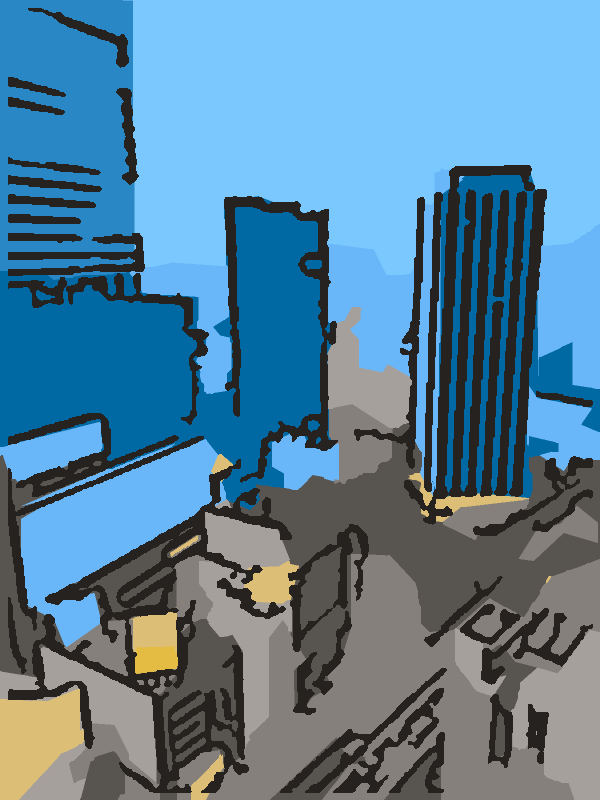
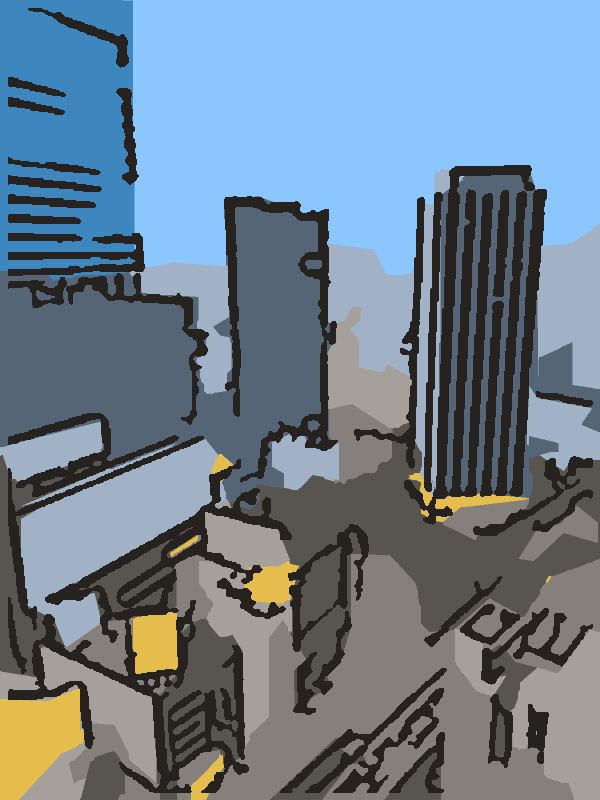
fix: keep natural palette colors close to the photo
Faint tints in a photo (blue skylight in shadows, overcast sky, glass) were
boosted to a fixed chroma of 40/64 and painted things in colors they do not
have. Output chroma now follows the photo's chroma after removing a small
tint floor, dull yellows snap to olive (foliage), dark colors fade, and
colors are fitted into sRGB without hue shifts.

diff --git a/src/photo2stamp/palette.py b/src/photo2stamp/palette.py
@@ -65,8 +65,21 @@ NATURAL_PALETTE = Palette(name=NATURAL, tones=(), sky="", accents=(), far="")
 # Hue anchors (Lab hue angle, degrees): red, orange, yellow, green, teal, blue, sky blue, purple.
 # Measured skies in the examples sit at 245..272 deg; 280 rendered them lavender.
 _HUE_ANCHORS = np.radians([30, 60, 88, 135, 190, 230, 262, 320])
-_NEUTRAL_CHROMA = 7.0  # below this a color is treated as grey (shadowed leaves are ~9)
-_MUTED, _VIVID = 40.0, 64.0  # output chroma for muted / vivid colors
+# Dull colors use olive (115) instead of yellow: a dull yellow in a photo is nearly always
+# foliage (conifers measure ~94 deg), while real yellow (signs, lamps) is saturated.
+_DULL_HUE_ANCHORS = np.radians([30, 60, 115, 135, 190, 230, 262, 320])
+_DULL_CHROMA = 20.0  # a hard switch on purpose: the olive/yellow split needs one rule
+_VIVID_INPUT = 35.0  # photo chroma above which a color counts as vivid (signs, lamps, flowers)
+# Output chroma follows the photo's chroma (x gain, capped): a faint tint in a photo is
+# mostly the light (blue skylight in shadows, overcast sky, glass) and must stay faint.
+# The first _TINT_FLOOR of chroma is treated as noise (white balance, haze) and removed.
+_CHROMA_GAIN = 3.5
+_TINT_FLOOR = 6.0
+_CHROMA_CAP = 64.0
+_CHROMA_STEP = 12.0  # output chroma is snapped to this step so near-equal colors merge
+# Below this lightness hues are unreliable (lighting, noise): chroma fades to 30%.
+_SHADOW_L = (5.0, 25.0)
+_NIGHT_SHADOW_L = (10.0, 50.0)  # night: fade longer and deeper (no maroon night sky)
 _L_RANGE = (34.0, 95.0)  # output lightness range: light enough for ink outlines to show
 _COLOR_L_MAX = 78.0  # max lightness of chromatic colors
 _L_STEP = 6.0  # lightness is snapped to this step so near-equal tones merge
@@ -190,32 +203,77 @@ def _equalized_lightness(L: np.ndarray, weights: np.ndarray | None, l_range: tup
     return (lo + below * (hi - lo)).astype(np.float32)
 
 
+def _max_chroma(L: np.ndarray, C: np.ndarray, h: np.ndarray) -> np.ndarray:
+    """Largest chroma <= C (per color) that stays inside sRGB at lightness L."""
+    out = C.astype(np.float32).copy()
+    for _ in range(25):
+        lab = np.stack([L, out * np.cos(h), out * np.sin(h)], axis=1).astype(np.float32)
+        rgb = cv2.cvtColor(lab.reshape(-1, 1, 3), cv2.COLOR_Lab2BGR)  # clips to 0..1
+        back = cv2.cvtColor(rgb, cv2.COLOR_BGR2Lab).reshape(-1, 3)
+        outside = np.linalg.norm(back - lab, axis=1) > 1.0
+        if not outside.any():
+            break
+        out = np.where(outside, out * 0.93, out)
+    else:  # near black / white no chroma fits: fall back to grey rather than a clipped hue
+        out = np.where(outside, 0.0, out)
+    return out
+
+
+# Lightness a vivid color may give up to keep its chroma; one unit of L costs one unit of C.
+_GAMUT_L_DROPS = (0.0, 4.0, 8.0, 12.0)
+
+
+def _fit_gamut(
+    L: np.ndarray, C: np.ndarray, h: np.ndarray, may_darken: np.ndarray
+) -> tuple[np.ndarray, np.ndarray]:
+    """Bring each color inside sRGB without a hue shift (clipping would turn light blue
+    into cyan). Colors in `may_darken` (vivid in the photo) may get slightly darker when
+    that keeps much more chroma; others (e.g. a pale sky) keep their lightness."""
+    cand_l = np.stack([np.where(may_darken, np.maximum(L - d, 0.0), L) for d in _GAMUT_L_DROPS])
+    cand_c = np.stack([_max_chroma(lv, C, h) for lv in cand_l])
+    score = cand_c - np.array(_GAMUT_L_DROPS)[:, None]
+    best = score.argmax(axis=0)
+    idx = np.arange(len(L))
+    return cand_l[best, idx], cand_c[best, idx]
+
+
+def _snap_hue(hue: np.ndarray, anchors: np.ndarray) -> np.ndarray:
+    """Nearest anchor angle (radians) for each hue."""
+    diff = np.abs((hue[:, None] - anchors[None, :] + np.pi) % (2 * np.pi) - np.pi)
+    return anchors[diff.argmin(axis=1)]
+
+
 def natural_colors(
     centers_lab: np.ndarray, weights: np.ndarray | None = None, l_range: tuple[float, float] | None = None
 ) -> np.ndarray:
     """Stylize cluster colors while keeping what makes things recognizable: their hue.
 
     Sky stays blue and trees stay green, but every hue is snapped to one of a few
-    anchors, saturation is set to one of two levels (muted / vivid), and lightness is
-    spread over a fixed range (half photo lightness, half area-equalized) in clear steps.
-    Greys stay grey. Returns a new (K,3) uint8 BGR array.
+    anchors, saturation follows the photo's (boosted, in steps; faint tints stay grey)
+    and lightness is spread over a fixed range (half photo lightness, half
+    area-equalized) in clear steps. Colors are fitted into sRGB without hue shifts.
+    Returns a new (K,3) uint8 BGR array.
     """
     c = np.asarray(centers_lab, np.float32)
     L, a, b = c[:, 0], c[:, 1], c[:, 2]
     chroma = np.hypot(a, b)
     hue = np.arctan2(b, a)
-    diff = np.abs((hue[:, None] - _HUE_ANCHORS[None, :] + np.pi) % (2 * np.pi) - np.pi)
-    snapped = _HUE_ANCHORS[diff.argmin(axis=1)]
-    out_c = np.where(chroma < _NEUTRAL_CHROMA, 3.0, np.where(chroma >= 35.0, _VIVID, _MUTED))
-    out_h = np.where(chroma < _NEUTRAL_CHROMA, np.radians(70), snapped)  # greys get a warm paper tint
+    snapped = np.where(chroma < _DULL_CHROMA, _snap_hue(hue, _DULL_HUE_ANCHORS), _snap_hue(hue, _HUE_ANCHORS))
+    night = l_range is not None and l_range[1] < 80
+    dark_lo, dark_hi = _NIGHT_SHADOW_L if night else _SHADOW_L
+    shadow = np.clip((L - dark_lo) / (dark_hi - dark_lo), 0.15 if night else 0.3, 1.0)
+    out_c = np.minimum(np.maximum(chroma - _TINT_FLOOR, 0.0) * _CHROMA_GAIN * shadow, _CHROMA_CAP)
+    out_c = np.round(out_c / _CHROMA_STEP) * _CHROMA_STEP
+    grey = out_c == 0  # chroma at or below about _TINT_FLOOR + 2.5
+    out_c = np.where(grey, 3.0, out_c)
+    out_h = np.where(grey, np.radians(70), snapped)  # greys get a warm paper tint
 
     lo, hi = l_range or _L_RANGE
     stretched = lo + (L - L.min()) / max(float(L.max() - L.min()), 1e-6) * (hi - lo) if len(L) > 1 else L
     out_l = 0.5 * stretched + 0.5 * _equalized_lightness(L, weights, (lo, hi))
     out_l = np.clip(np.round(out_l / _L_STEP) * _L_STEP, lo, hi)
     # very light colors fall outside sRGB and get washed out: only greys may go near white
-    out_l = np.where(chroma < _NEUTRAL_CHROMA, out_l, np.minimum(out_l, _COLOR_L_MAX))
-    if l_range is not None and l_range[1] < 80:  # night range: dark colors stay muted (no maroon night sky)
-        out_c = out_c * np.clip((L - 10.0) / 40.0, 0.15, 1.0)
+    out_l = np.where(grey, out_l, np.minimum(out_l, _COLOR_L_MAX))
+    out_l, out_c = _fit_gamut(out_l, out_c, out_h, may_darken=chroma >= _VIVID_INPUT)
     lab = np.stack([out_l, out_c * np.cos(out_h), out_c * np.sin(out_h)], axis=1)
     return lab_to_bgr(lab)

diff --git a/tests/test_natural_palette.py b/tests/test_natural_palette.py
@@ -25,7 +25,9 @@ def test_natural_keeps_hue_family():
 def test_natural_boosts_saturation_of_dull_colors():
     dull_green = _lab((50, -8, 8))
     b, g, r = natural_colors(dull_green)[0].astype(int)
-    assert g - max(b, r) > 15
+    assert g > max(b, r)
+    _, chroma, _ = _out_lch([(50, -8, 8)])
+    assert chroma[0] > np.hypot(8, 8)
 
 
 def test_natural_keeps_greys_neutral():
@@ -73,10 +75,11 @@ def test_natural_dark_colors_are_desaturated_in_night_range():
     assert max(b, g, r) - min(b, g, r) < 25
 
 
-def test_natural_daytime_shadow_foliage_stays_green():
-    # measured dark leaf cluster of examples/free/street.jpg
-    b, g, r = natural_colors(_lab((15.6, -8.5, -1.1), (61, -4, 2.2)))[0].astype(int)
-    assert g > r + 10  # greenish, not grey
+def test_natural_daytime_shadow_foliage_is_not_tinted():
+    # measured dark leaf cluster of examples/free/street.jpg: its teal tint is skylight,
+    # boosting it painted the canopy blue
+    _, chroma, _ = _out_lch([(15.6, -8.5, -1.1), (61, -4, 2.2)])
+    assert chroma[0] <= 12
 
 
 def test_natural_vivid_colors_are_strong():
@@ -86,3 +89,82 @@ def test_natural_vivid_colors_are_strong():
     out = natural_colors(_lab((60, 30, 50), (40, 0, 0)))
     lab_out = bgr_to_lab(out)
     assert np.hypot(*lab_out[0, 1:]) >= 55
+
+
+def _lch(L, C, h_deg):
+    h = np.radians(h_deg)
+    return (L, C * np.cos(h), C * np.sin(h))
+
+
+def _out_lch(lab_rows):
+    from photo2stamp.palette import bgr_to_lab
+
+    lab = bgr_to_lab(natural_colors(_lab(*lab_rows)))
+    return lab[:, 0], np.hypot(lab[:, 1], lab[:, 2]), np.degrees(np.arctan2(lab[:, 2], lab[:, 1])) % 360
+
+
+def test_natural_faint_tint_stays_faint():
+    # measured dark glass of examples/photo.jpg: a lighting tint, not an object color
+    _, chroma, _ = _out_lch([_lch(25.5, 10.3, 251), (60, 0, 0)])
+    assert chroma[0] <= 25
+
+
+def test_natural_chroma_order_is_preserved():
+    _, chroma, _ = _out_lch([_lch(50, 10, 135), _lch(50, 20, 135), _lch(50, 30, 135)])
+    assert chroma[0] < chroma[1] < chroma[2]
+
+
+def test_natural_dull_yellow_reads_as_vegetation():
+    # measured conifer forest of examples/free/castle.jpg (hue 94 deg, looks dark green)
+    _, _, hue = _out_lch([_lch(40.8, 16.4, 94), (75, 0, 0)])
+    assert 100 <= hue[0] <= 135
+
+
+def test_natural_bright_yellow_stays_yellow():
+    # measured yellow sign of examples/photo.jpg
+    _, chroma, hue = _out_lch([_lch(71.2, 44, 98), (30, 0, 0)])
+    assert hue[0] < 100 and chroma[0] >= 55
+
+
+def test_natural_deep_shadow_tint_is_muted():
+    # measured shadowed leaves of examples/free/street.jpg: blue cast from the sky
+    _, chroma, _ = _out_lch([_lch(10, 9.2, 237), (61, 0, 0)])
+    assert chroma[0] <= 15
+
+
+def test_natural_light_sky_keeps_its_hue_in_gamut():
+    # measured sky of examples/free/street.jpg: chroma 44 at L 76 is outside sRGB and
+    # used to clip to cyan (hue 237)
+    _, _, hue = _out_lch([_lch(72, 29.3, 262), (10, 0, 0)])
+    assert abs(hue[0] - 262) <= 8
+
+
+def test_natural_light_sky_stays_light():
+    # measured sky of examples/free/castle.jpg: must not darken into a deep azure
+    lightness, chroma, _ = _out_lch([_lch(74.5, 26.1, 263), (40, 0, 0)])
+    assert lightness[0] >= 72 and chroma[0] <= 45
+
+
+def test_natural_barely_tinted_stone_stays_grey():
+    # measured pier of examples/free/lighthouse.jpg (circle crop): beige stone, not olive
+    _, chroma, _ = _out_lch([_lch(57.6, 7.2, 113), (36, 0, 0)])
+    assert chroma[0] <= 6
+
+
+def test_natural_vivid_color_may_darken_to_keep_chroma():
+    # orange at the top of the lightness range only holds chroma ~46 in sRGB
+    lightness, chroma, hue = _out_lch([(60, 30, 50), (40, 0, 0)])
+    assert lightness[0] < 78 and chroma[0] >= 55 and abs(hue[0] - 60) <= 6
+
+
+def test_max_chroma_falls_back_to_grey_where_nothing_fits():
+    from photo2stamp.palette import _max_chroma
+
+    out = _max_chroma(np.array([99.5, 60.0], np.float32), np.array([60.0, 10.0], np.float32), np.radians([60.0, 60.0]))
+    assert out[0] == 0 and out[1] == 10
+
+
+def test_natural_moderate_colors_stay_colorful():
+    # measured sea of examples/free/lighthouse.jpg: a real color, not a lighting tint
+    _, chroma, _ = _out_lch([_lch(36.7, 11.4, 226), (70, 0, 0)])
+    assert chroma[0] >= 20

diff --git a/README.md b/README.md
@@ -35,7 +35,7 @@ SVG出力の例は[examples/photo_natural.svg](examples/photo_natural.svg)にあ
 | 合成画像 | 分かる | ビル、看板、緑の木、道 |
 | 街の俯瞰(作者撮影) | 分かる | 輪郭線の入った高層ビル群と空 |
 | 夜景 | 分かる | 暗いビル群に灯りの点が並ぶ |
-| 木陰の道 | 分かる | 青空、枝、道、緑と青緑の葉 |
+| 木陰の道 | 分かる | 青空、枝、道、緑の葉と日陰の暗い葉 |
 | 夕景の橋 | ほぼ分かる | 灯りの付いた橋の帯、川、夕焼け。橋脚のアーチは出ない |
 | 寺院 | ほぼ分かる | 段になった塔の形。極彩色の彫刻は灰色と青の面になる |
 
@@ -93,7 +93,7 @@ open("stamp.svg", "w").write(result.svg)
 | 3 | L0勾配最小化で、重要な輪郭を残したまま面を平らにする | `pipeline._smooth` |
 | 4 | Lab色空間のk-meansで8色に分ける。色み(a, b)を明るさの2倍に重み付けし、同じ明るさの緑の木と灰色の道を別の色にする | `segment.quantize` |
 | 5 | 彩度の高い小領域(看板や照明)を拾い、上端に接するなめらかな領域を空とする | `segment.extract_accents` / `extract_sky` |
-| 6 | 色を決める。`natural`では色相を8つの基準色に、彩度を2段階に、明るさを一定の段差にそろえる。色のある面は明るさを78までに抑え(白に近づけるとsRGBの範囲を外れて淡くなるため)、白に近い明るさは灰色にだけ使う | `palette.natural_colors` |
+| 6 | 色を決める。`natural`では色相を8つの基準色に、明るさを一定の段差にそろえる。彩度は、写真の彩度からわずかな色味(6)を差し引いて3.5倍にする(上限あり)。写真でうっすら色がかった灰色は光の色(日陰の青み、曇り空、ガラスの反射)であることが多く、一律に強めると現実と違う色になるため、灰色のまま残す。くすんだ黄色は葉として黄緑に寄せ、暗い面の彩度は下げる。sRGBの範囲を外れる色は、色相を保ったまま彩度を下げる(鮮やかな色は少し暗くして彩度を保つ)。色のある面は明るさを78までに抑え、白に近い明るさは灰色にだけ使う | `palette.natural_colors` |
 | 7 | 小さな領域を隣に吸収させ、ラベルを元の大きさになめらかに拡大し、多角形にする | `segment.merge_small_regions` / `upscale_labels` / `vectorize.labels_to_shapes` |
 | 8 | 輪郭線を描く。600pxの写真にDoG(ガウシアン差分)をかけ、短い線を捨てて太さをそろえる。暗い面の上には描かない | `lines.dog_lines` / `clean_lines` |
 | 9 | 夜景(明るさの中央値が45未満)では面を暗く保ち、輪郭線の代わりに明るい点(窓の灯り)を灯り色の点で描く | `pipeline.is_night` / `lines.light_spots` |
@@ -129,7 +129,7 @@ open("stamp.svg", "w").write(result.svg)
 ## 制約
 
 - 固定パレット(`teal`など)は明度だけで塗り分けるので、青空が白、木が黄色のように物の色が入れ替わり、被写体が分かりにくくなります。被写体を見せたいときは`natural`を使ってください
-- 影の中の葉は写真では少し青みがかっているため、青緑で塗られます
+- 日陰の葉は写真では暗く青みがかっているため、緑ではなく暗い灰色で塗られます
 - 多色の模様(寺院の彫刻など)は、色が平均されて灰色や青の面になります
 - 夜モードの判定は写真全体の明るさだけで行います。夕景のように半分だけ暗い写真は昼の描き方になります
 - 正方形の切り抜き位置は「エッジが最も多い範囲」で決めます。細部の多いものが主役でない写真では、主役が外れることがあります
